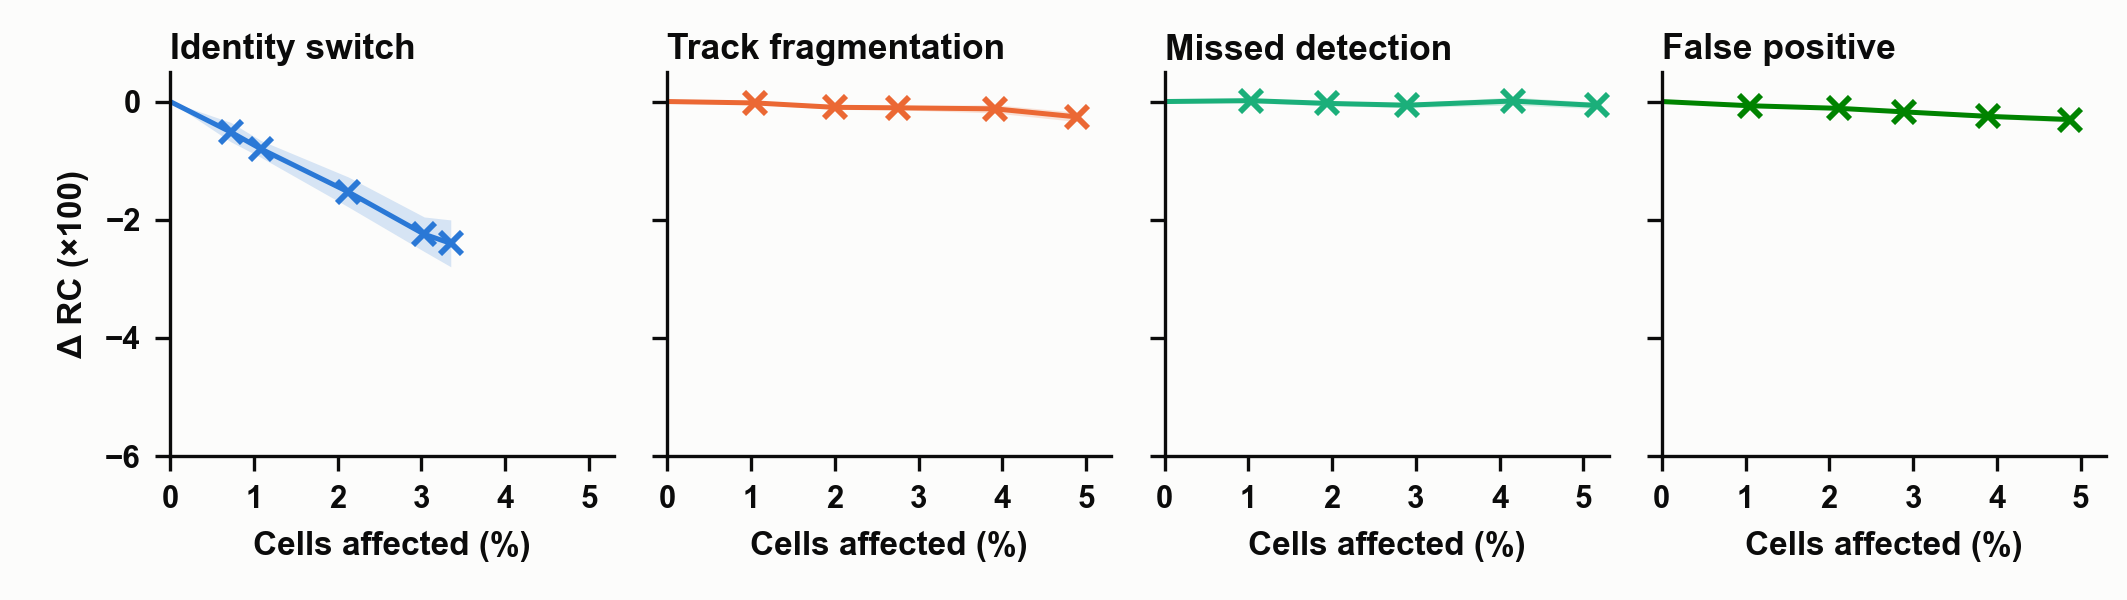
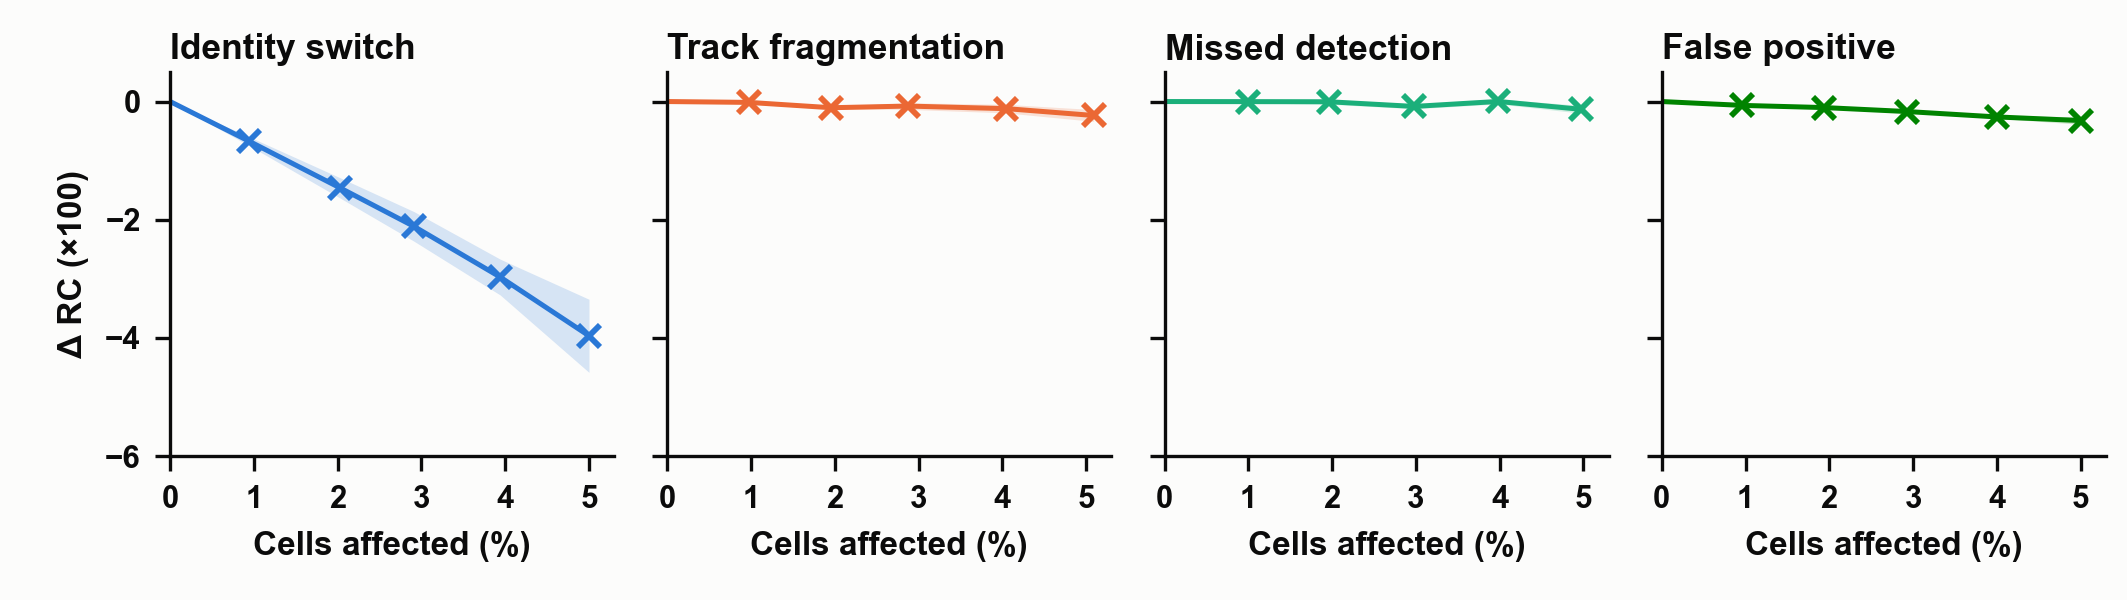
Figure 1 calibration: bin simulated pairs by realised rate into whole-percent bins (evenly spaced crosses for all types)

diff --git a/scripts/make_fig1.py b/scripts/make_fig1.py
@@ -247,8 +247,11 @@ def _calibration_fine(metric: str, ylabel: str, stem: str, ylim=(-6, 0.5)):
     if not f.exists():
         return
     df = pd.read_csv(f)
-    # evenly spaced points: whole-percent nominal rates only
-    sim = df[df.source.str.startswith("SIM") & (df.error != "none") & df.rate.round(4).isin([0.01, 0.02, 0.03, 0.04, 0.05])]
+    # evenly spaced points: bin each simulated pair by its REALISED rate into whole-percent bins
+    # (1%: 0.5-1.5, 2%: 1.5-2.5, ...), so crosses sit near 1..5% for every error type
+    sim = df[df.source.str.startswith("SIM") & (df.error != "none")].copy()
+    sim["rate"] = np.round(sim.rate_realised * 100) / 100
+    sim = sim[sim.rate.between(0.01, 0.05)]
     fig, axes = plt.subplots(1, 4, figsize=(fs.DOUBLE, 2.0), sharey=True,
                              gridspec_kw=dict(left=0.08, right=0.99, top=0.88, bottom=0.24, wspace=0.12))
     for ax, t in zip(axes, fs.ORDER4):
